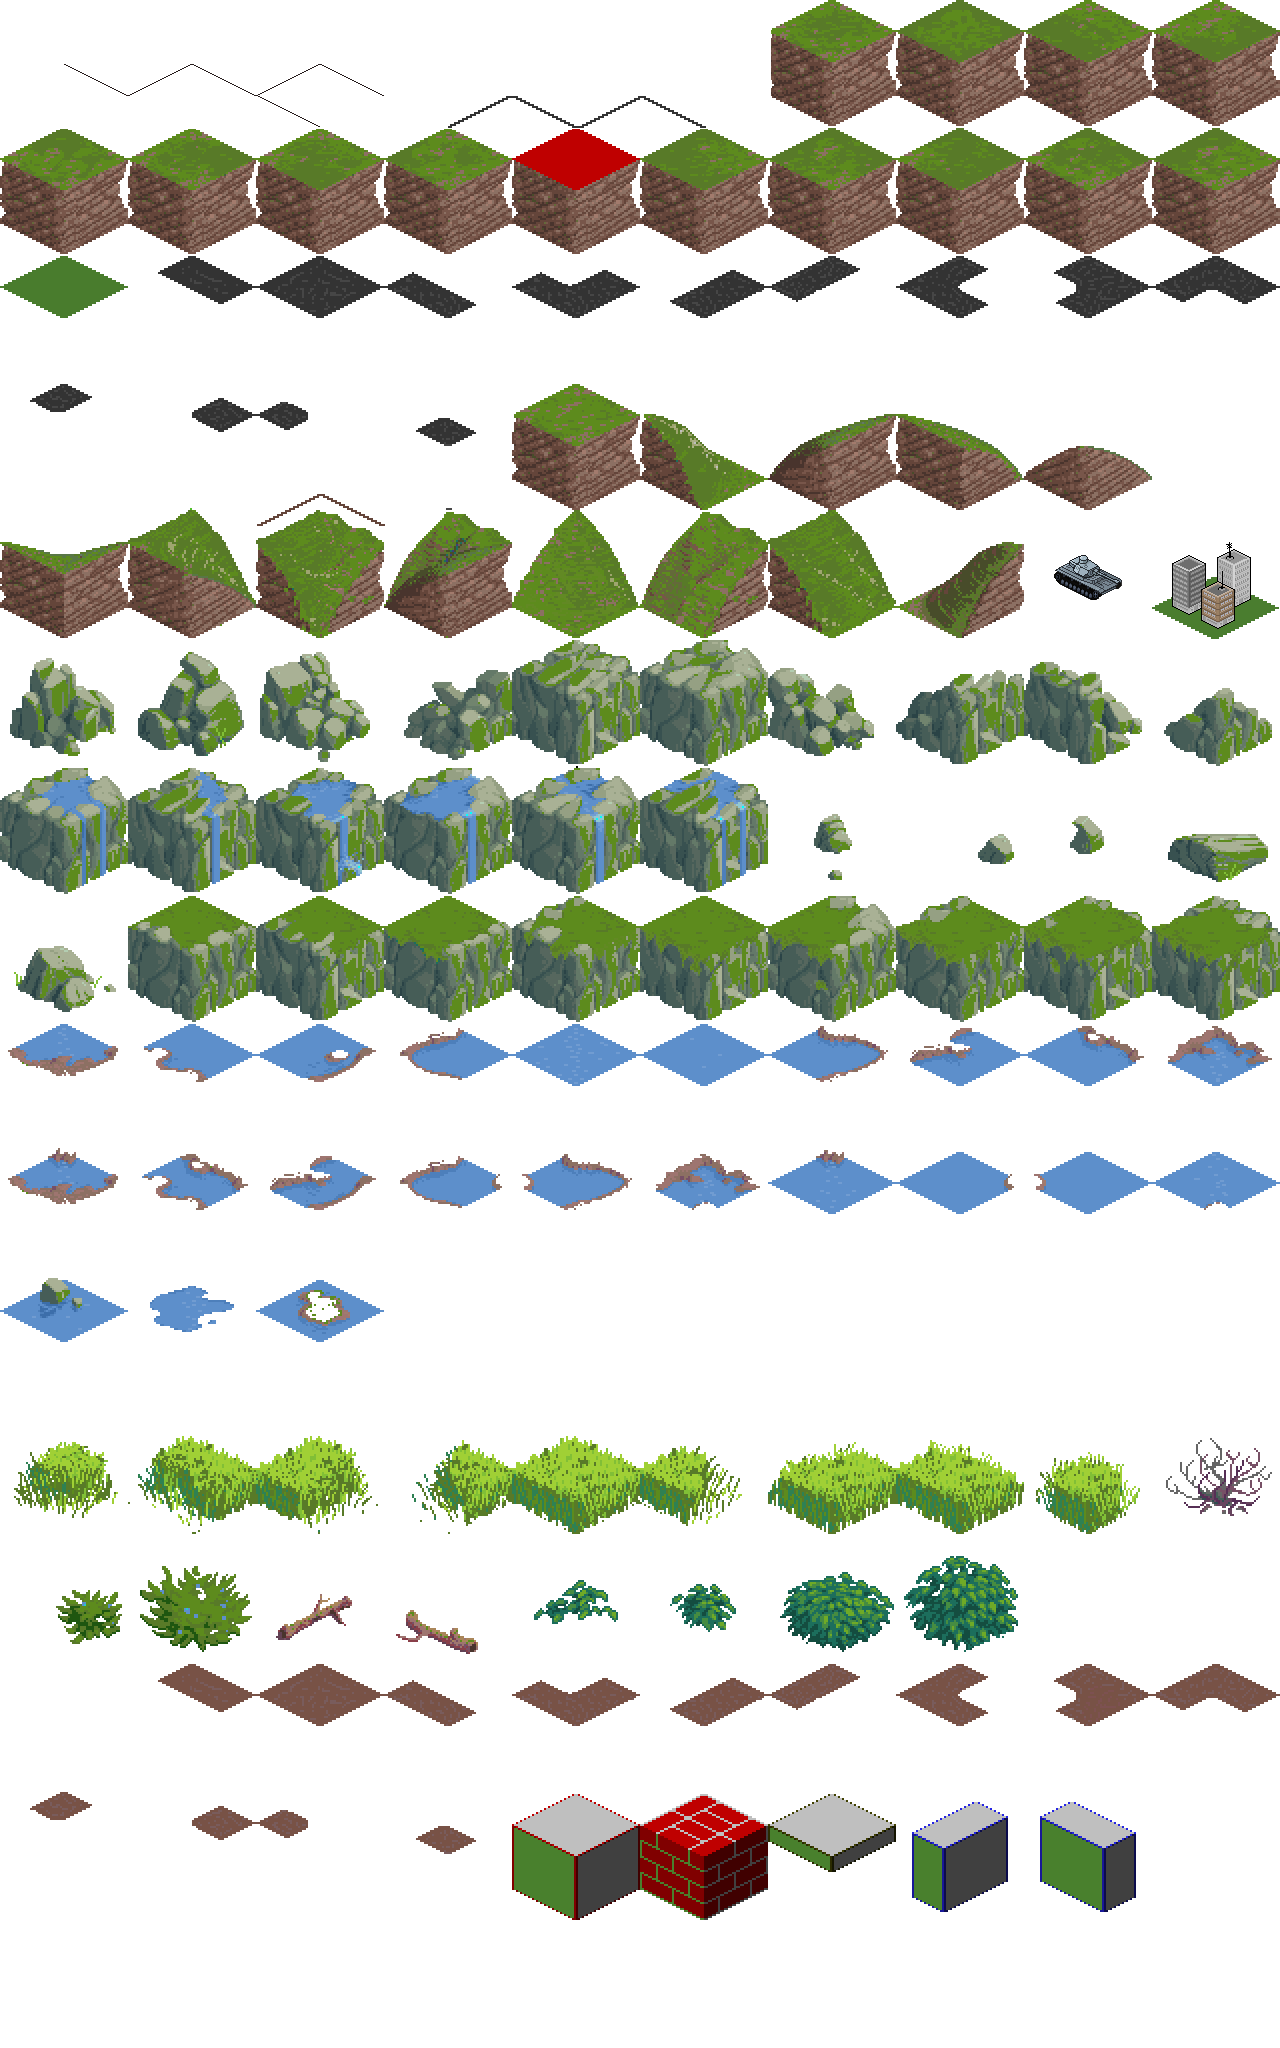
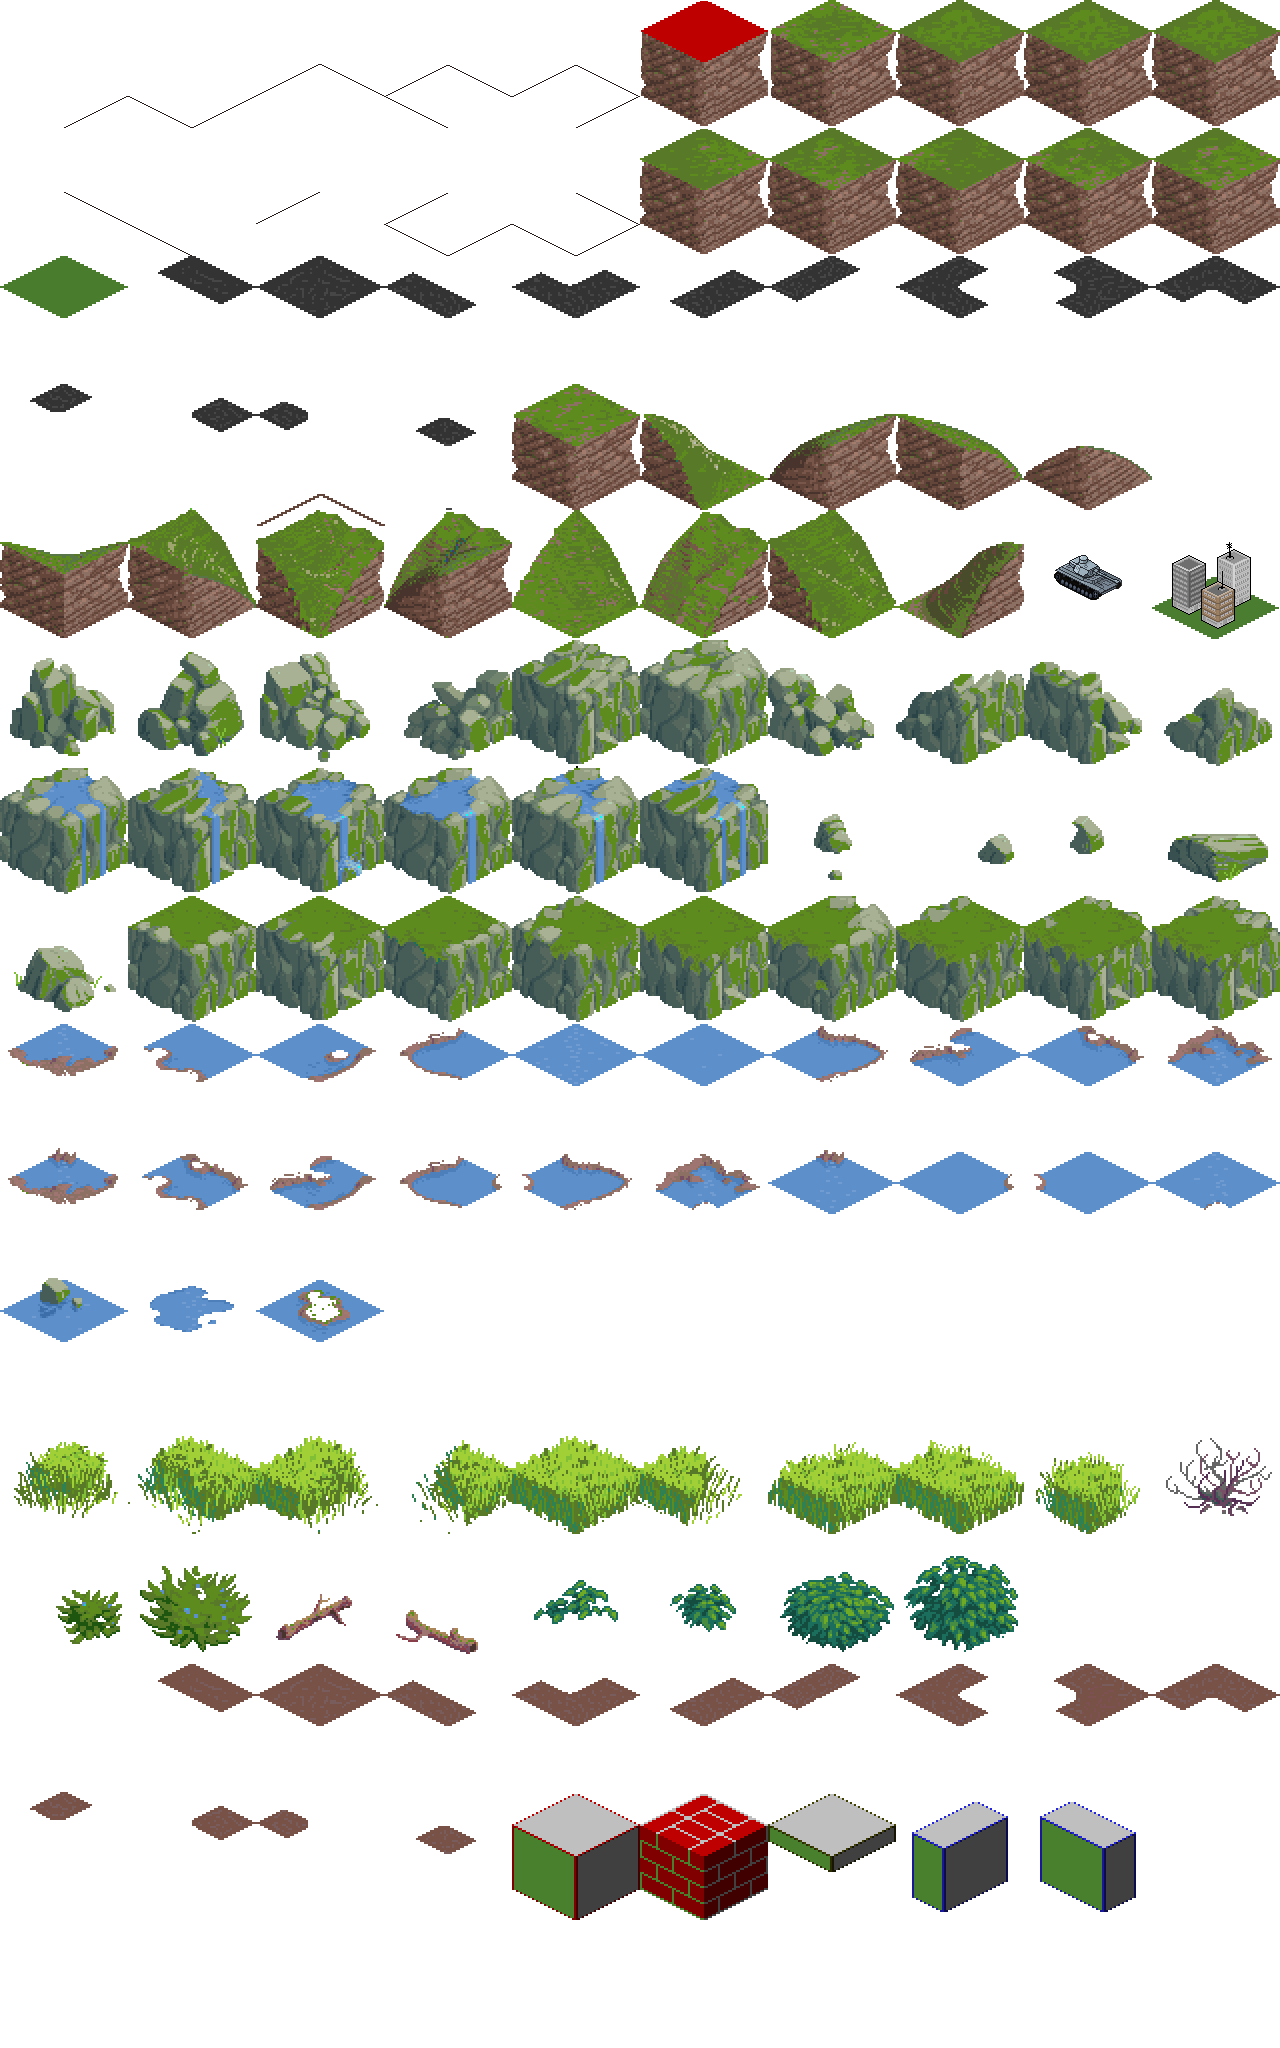
Update 1: Neue Java Version wegen neuer FXGL Version; Neue Map Tiles zum Testen

Changed region(s): [[0.0, 0.0625, 0.5, 0.125], [0.5, 0.0, 0.5938, 0.0625]]

diff --git a/robustClient/src/main/java/com/robustgames/robustclient/business/GameObjectFactory.java b/robustClient/src/main/java/com/robustgames/robustclient/business/GameObjectFactory.java
@@ -15,13 +15,13 @@ public class GameObjectFactory implements EntityFactory {
     @Spawns("tank")
     public Entity spawnTank(SpawnData data) {
         return FXGL.entityBuilder(data)
-                .viewWithBBox("Tank.png")
+                .viewWithBBox("sprite1.png")
                 .build();
     }
     @Spawns("city")
     public Entity spawnCity(SpawnData data) {
         return FXGL.entityBuilder(data)
-                .viewWithBBox("city1.png").onClick(System.out::println)
+                .viewWithBBox("sprite3.png").onClick(System.out::println)
                 .build();
     }
     @Spawns("Background")

diff --git a/robustClient/src/main/java/com/robustgames/robustclient/application/RobustApplication.java b/robustClient/src/main/java/com/robustgames/robustclient/application/RobustApplication.java
@@ -35,7 +35,7 @@ public class RobustApplication extends GameApplication  {
     protected void initGame() {
         FXGL.getGameWorld().addEntityFactory(new GameObjectFactory());
         FXGL.spawn("Background", new SpawnData(0, 0).put("width", WIDTH).put("height", HEIGHT));
-        FXGL.setLevelFromMap("map1.tmx");
+        FXGL.setLevelFromMap("maptest.tmx");
     }
 
     public static void main(String[] args) {
